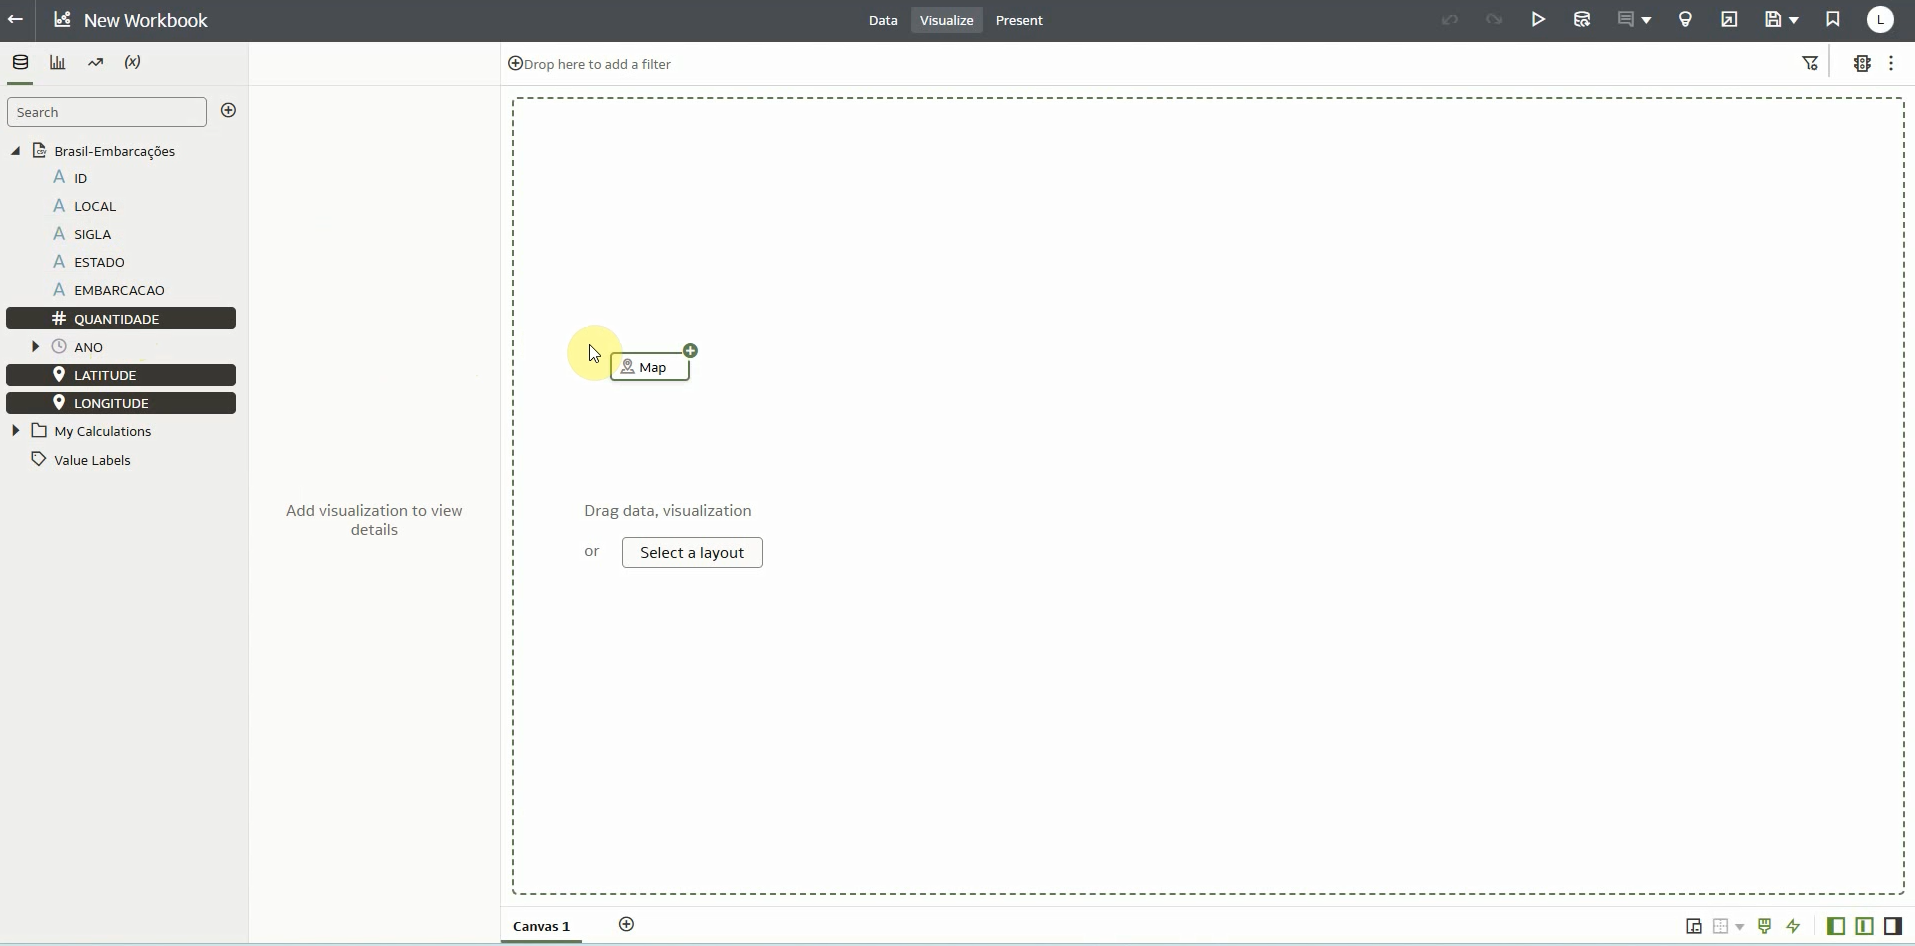
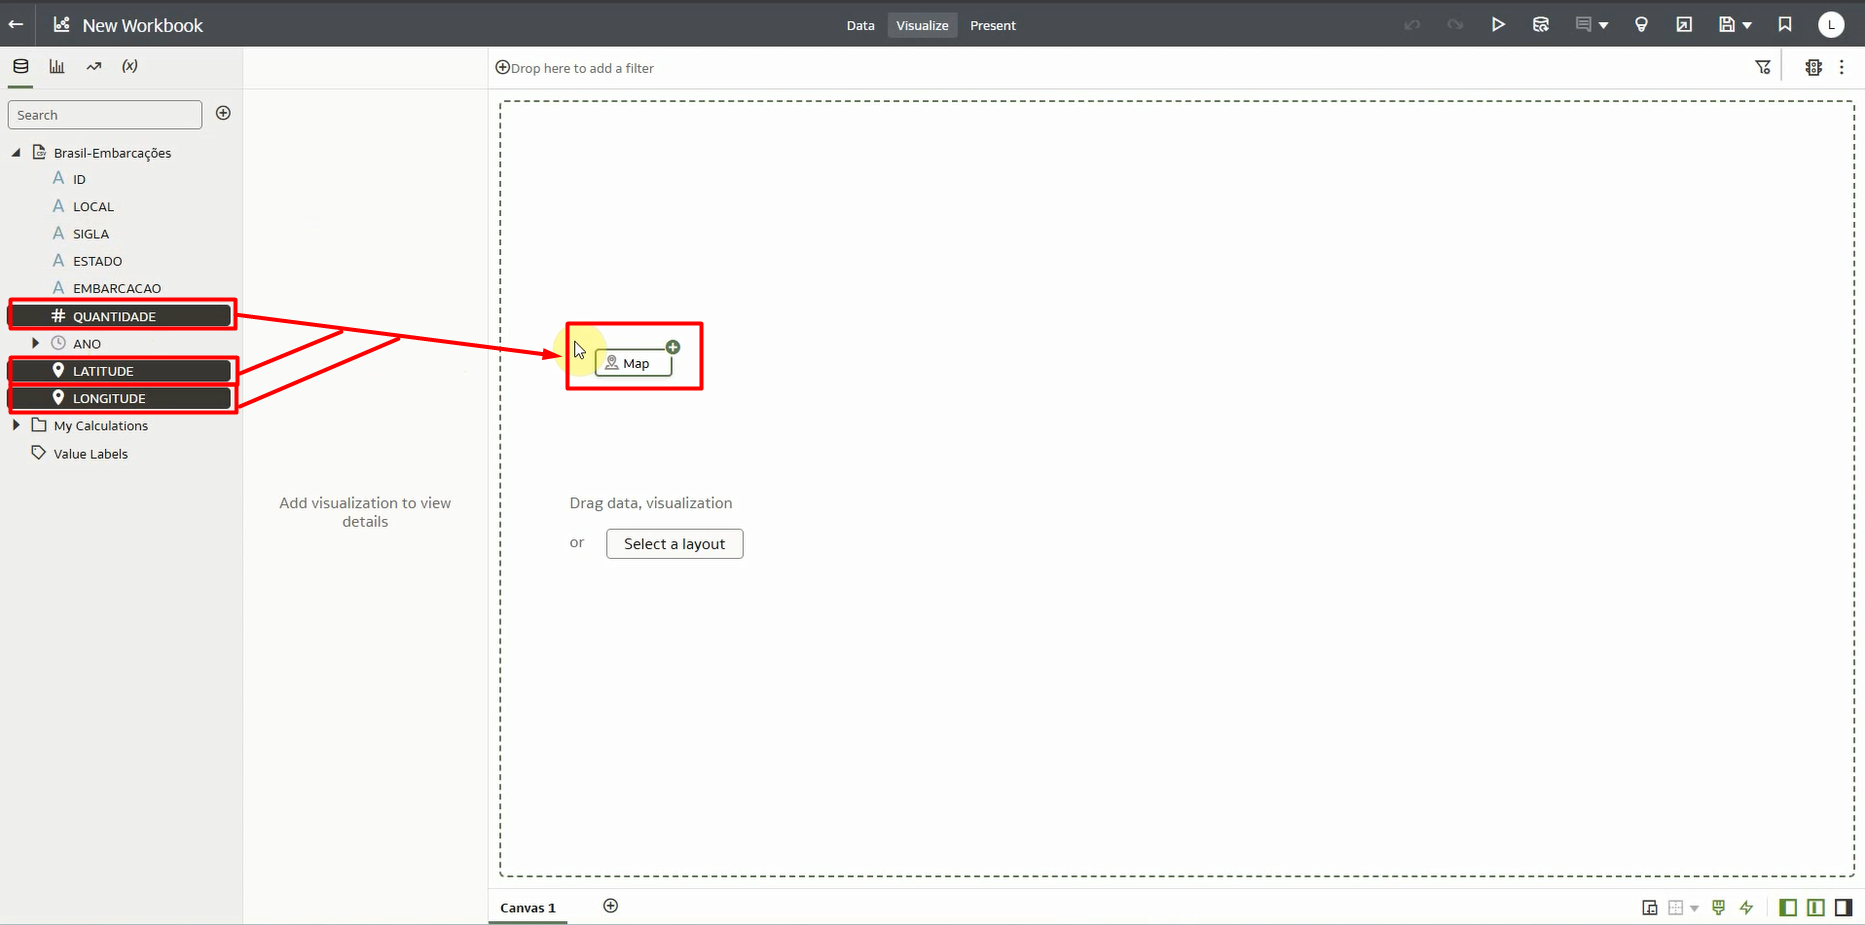
Todos labs OAC finalizados

diff --git a/5-analytics-cloud/5-analytics-cloud.md b/5-analytics-cloud/5-analytics-cloud.md
@@ -35,100 +35,145 @@ O objetivo deste workshop é demonstrar de forma prática como utilizar a ferram
 
 
 <br>
-3. Após o acesso da Homepage do OAC, faça o download do arquivo .dva com o material do laboratório: [Painel das Embarcações Brasileiras](https://objectstorage.us-ashburn-1.oraclecloud.com/n/idi1o0a010nx/b/Fast_Track/o/Lab%20Analytics%20-%20Embarca%C3%A7%C3%B5es%20Brasil.dva)
+3. Após o acesso da Homepage do OAC, **faça o download do arquivo .dva** com o material do laboratório: [Painel das Embarcações Brasileiras](https://objectstorage.us-ashburn-1.oraclecloud.com/n/idi1o0a010nx/b/Fast_Track/o/Lab%20Analytics%20-%20Embarca%C3%A7%C3%B5es%20Brasil.dva)
 
-4. Em seguida, clique nos 3 pontos, ao lado do ícone do perfil. Selecione **Import Workbook**, escolha o arquivo .dva que acabou de baixar no passo anterior.
+4. Em seguida, clique nos 3 pontos, ao lado do ícone do perfil. Selecione **'Import Workbook'**.
    ![Import do Arquivo](images/Import1.png)
+
+5. escolha o arquivo .dva que acabou de baixar no passo 3, para importar.
    ![Import do Arquivo](images/Import2.png)
    ![Import do Arquivo](images/Import3.png)
 
-5. Após a importação você terá acesso ao dataset (Conjunto de Dados) **Brasil-Embarcações** e ao workbook que vamos fazer, se quiser dar uma olhada como ele vai ficar no final só entrar nele **Lab Analytics - Embarcações Brasil**. 
-   ![Homepage depois do import](images/Import4.png)
-
-
-6. (OPCIONAL) Se quiser mudar o idioma da ferramenta, clique no Ícone do Perfil, selecione Perfil. Depois só escolher o Idioma e a Configuração Regional do OAC. 
+6. Alterar o idioma da ferramenta, clique no Ícone do Perfil, selecione Perfil. Depois só escolher o Idioma e a Configuração Regional do OAC para o desejado. 
    ![Perfil - Idioma](images/Perfil.png)
    ![Perfil - Idioma](images/Perfil2.png)
 
+7. (OPCIONAL) Após a importação você terá acesso ao dataset (Conjunto de Dados) **Brasil-Embarcações** e ao workbook que vamos fazer, se quiser dar uma olhada como ele vai ficar no final só entrar nele **Lab Analytics - Embarcações Brasil**. 
+   ![Homepage depois do import](images/Import4.png)
 
 ## 2⃣ Criação do Dashboard - Visualizações
 
-1. Na Homepage do OAC, selecione o conjunto de dados **Brasil-Embarcações**. Irá abrir o workbook (Pasta de Trabalho), uma tele em branco para montar o Painel com análises e visualizações. 
-![Conjunto de Dados para montar Painel](images/Workbook1.png)
+1. Na Homepage do OAC, selecione o Menu de Hamburguer (Canto Superior Esquerdo), Selecione Dados e a Aba Conjunto de Dados (Dataset).
+![Homepage - Conjunto de Dados](images/Dataset.png)
+
+2. Selcione **Brasil-Embarcações**. Irá abrir o workbook (Pasta de Trabalho), uma tele em branco para montar o Painel com análises e visualizações. 
 ![Painel com Conjunto de Dados selecionado](images/Workbook2.png)
 
-2. Na tela em branco do painel, selecione os dados da primeira coluna da esquerda, segurando o _CTRL+Clique_  **Quantidade, Latitude, Longitude**. Agora, arraste os itens selecionados para a Tela, e como sugestão o OAC já sugere que a visualização seja um Mapa.
+3. Na tela em branco do painel, selecione os dados da primeira coluna da esquerda, segurando o **_CTRL+Clique_  Quantidade, Latitude, Longitude**. Agora, **arraste** os itens selecionados **para a Tela** e como sugestão o OAC já sugere que a visualização seja um Mapa.
 ![Visualização Mapa](images/Workbook3.png)
 
-3. Dentro da Segunda Coluna, na gramática da visualização coloque o campo **QUANTIDADE** na caixa 'Tamanho'. E selecione o campo **ESTADO** e arraste ele ele dentro da caixa 'Cor'.
+4. Dentro da Segunda Coluna, na gramática da visualização coloque o campo **QUANTIDADE** na caixa 'Tamanho'. E selecione o campo **ESTADO** e arraste ele ele dentro da caixa 'Cor'.
 ![Visualização Mapa](images/Workbook4.png)
 
-4. (OPCIONAL) Pode alterar a propriedade para personalizar o mapa. Na segunda coluna onde fica a gramática e a propriedade do gráfico, selecione o ícone superior de propriedades e vá até ícone de mapa na segunda linha. Pode alterar a propriedade do Mapa, em cada ícone da segunda linha tem acesso a um tipo de personalização da visualização. 
+5. (OPCIONAL) Pode alterar a propriedade para personalizar o mapa. Na segunda coluna onde fica a gramática e a propriedade do gráfico, selecione o ícone superior de propriedades e vá até ícone de mapa na segunda linha. Pode alterar a propriedade do Mapa, em cada ícone da segunda linha tem acesso a um tipo de personalização da visualização. 
 ![Propriedades Visualização](images/Workbook5.png)
 
-5. (OPCIONAL) Pode deixar no modo que achar mais agradável, para continuar vou deixar no modo Dark/Escuro do Mapa.
+6. (OPCIONAL) Pode deixar no modo que achar mais agradável, para continuar vou deixar no modo Dark/Escuro do Mapa.
 ![Propriedades Visualização](images/Workbook6.png)
 
-6. Criar um gráfico de Barras. Seleciona o campos desejados na coluna da esquerda onde fica os dados, segurando o _CTRL+Clique_  **Estado e Quantidade**. Agora, arraste os itens selecionados para a Tela, ao lado do Mapa, aparece uma faixa verde na posição onde a visualização vai ficar. 
+7. Criar um gráfico de Barras. Seleciona o campos desejados na coluna da esquerda onde fica os dados, segurando o _CTRL+Clique_  **Estado e Quantidade**. Agora, arraste os itens selecionados para a Tela, ao lado do Mapa, aparece uma faixa verde na posição onde a visualização vai ficar. 
 ![Gráfico de Barra](images/Barra1.png)
 
-7. Para ordenar os dados do gráfico selecione o ícone com uma seta para cima e outra para baixo, como mostrado na imagem. E então selecione a forma que deseja ordenar os dados. 
+8. Para ordenar os dados do gráfico selecione o ícone com uma seta para cima e outra para baixo, como mostrado na imagem. E então selecione a forma que deseja ordenar os dados. 
 ![Ordenar Dados](images/Ordenar1.png)
 ![Ordenar Dados](images/Ordenar2.png)
 ![Ordenar Dados](images/Ordenar3.png)
 
-8. Salve seu trabalho até agora. Selecione o ícone do disquete no campo direito superior. Dê um nome para o seu Painel e salve. 
+9. Salve seu trabalho até agora. Selecione o ícone do disquete no campo direito superior. Dê um nome para o seu Painel e salve. 
 ![Salvar Painel](images/Save.png)
 
 ## 3⃣ Adição de Estatística nas Visualizações
 
 1. Para adicionar estatísticas como: _Previsão, Linha de Tendência, Linha de Referência, Outliers ou Cluster_. 
 <br> Seleciona a visualização que deseja adiconar estatística. Clique com o _botão direito_, selecione **Adionar Estatísticas**. E escolhe a opção **Outliers**, trará os pontos que destoam do grupo. 
-
    ![Estatística - Outliers](images/Outliers.png)
    ![Estatística - Outliers](images/Outliers2.png)
 
-2. Para deixar uma visualização mais personalizada pode adicionar um filtro para trazer os _**10 maiores valores**_. 
-<br> Selecione o dado **Quantidade** na primeira coluna e traga para segunda coluna, na gramática do painel para adionar **Quantidade** em **Filtros**. 
+2. Para deixar uma visualização mais personalizada pode adicionar um filtro para trazer os _**10 maiores valores**_. Na segunda coluna, selecione o ícone da Gramática da Visualização.
+   ![Filtro na Visualização](images/Filtro.png)
+
+3. Selecione o dado **Quantidade** na primeira coluna e traga para segunda coluna, na gramática do painel para adionar **Quantidade** em **Filtros**. 
 <br> Personalize o filtro, definindo _N Mais Altos_ e Contragem _10_. 
 
-   ![Filtro na Visualização](images/Filtro.png)
    ![Filtro na Visualização](images/Filtro1.png)
 
-3. Ao adicionar mais algumas métricas de estatística, como Linha de Referência. 
+4. Ao adicionar mais algumas métricas de estatística, como Linha de Referência. 
 <br> Seleciona a visualização que deseja adiconar estatística. Clique com o _botão direito_, selecione **Adionar Estatísticas**. E escolhe a opção **Linha de Referência**. Deixe na Função Média. 
 
    ![Linha de Referência](images/Referencia1.png)
    ![Linha de Referência](images/Referencia2.png)
 
-4. Repita o passo anterior. 
+5. Repita o passo anterior. 
 <br> Seleciona a visualização que deseja adiconar estatística. Clique com o _botão direito_, selecione **Adionar Estatísticas**. E escolhe a opção **Linha de Referência**. Deixe na Função Mediana, alterando a cor da linha para ficar diferente.   
 
    ![Linha de Referência](images/Referencia3.png)
    ![Linha de Referência](images/Referencia4.png)
 
 ## 4⃣ One-Click Explain & Autoinsights
-1. Adiocione mais uma tela. No canto inferior tem um símbolo de '+', ao lado da aba 'Tela 1' ou 'Geral'. Clique nele para adicionar uma segunda Tela.
+1. Adicione mais uma tela. No canto inferior tem um símbolo de '+', ao lado da aba 'Tela 1' ou 'Geral'. Clique nele para adicionar uma segunda Tela.
    ![Tela 2](images/Tela2.png) 
 
 2. Renomeie o nome da Tela 2 para **'Autoinsights'**, Abas no canto inferior do Painel. 
 
-3. 
-   ![Autoinsights](images/Autoinsight1.png) 
-   ![Autoinsights](images/Autoinsight2.png) 
+3. Selecione a **Lâmpada Laranja** no canto superior direito próximo ao Ícone do Perfil. Irá abrir uma aba com várias sugestões de gráficos e visualizações.
+   ![Autoinsights](images/Autoinsight1.png)
+   ![Autoinsights](images/Autoinsight2.png)  
+
+4. Aproveite para selecionar algumas visualizações, como o Mapa **Geographical Density of Records**, clique no símbolo '+' ou arraste e solte na tela do Painel. 
    ![Autoinsights](images/Autoinsight3.png) 
+
+5. Repita a mesma ação para o gráfico de Barras **Top 10 SIGLA by QUANTIDADE**.
    ![Autoinsights](images/Autoinsight4.png) 
+
+6. Sua tela de Autoinsights vai ficar dessa forma: 
    ![Autoinsights](images/Autoinsight5.png) 
 
+7. Agora, a funcionalidade que explica seu dado. Clique com o _botão direito_ em cima do dado **ESTADO**. E selecione **'Explicar ESTADO'**
+   ![One-Click Explain](images/Explain10.png)
+
+8. Vai abrir um pop up, com __Fatos Básicos, Drivers Chave, Segmentos e Anomalias__ sobre o dado selecionado.
+   ![One-Click Explain](images/Explain11.png)
+
+9. Navegue pelas Abas do Explain para ver quais visualizações e qual tipos de análises são disponibilizadas com 1-Clique.
+   ![One-Click Explain](images/Explain12.png)
+   ![One-Click Explain](images/Explain13.png)
+   ![One-Click Explain](images/Explain14.png)
+
+10. Repita para o dado **EMBARCAÇÃO**, clique com o _botão direito_ em cima do dado **EMBARCAÇÃO**. E selecione **'Explicar EMBARCAÇÃO'**
+   ![One-Click Explain](images/Explain1.png)
+   ![One-Click Explain](images/Explain2.png)
+   ![One-Click Explain](images/Explain3.png)
+   ![One-Click Explain](images/Explain4.png)
+
+11. Adicione algumas das visualizações disponibilizadas no seu Painel, selecione o **'Check Verde'**, no canto superior das visualizações. 
+   ![One-Click Explain](images/Explain5.png)
+   ![One-Click Explain](images/Explain6.png)
+
+12. Agora selecione o botão **'Adicionar Selecionado'** e veja as visualizações disponíveis no seu Painel.
+   ![One-Click Explain](images/Explain7.png)
+
+13. Salve seu trabalho. Selecione o ícone do disquete no campo direito superior. E volte a Homepage.
+![Salvar Painel](images/Save2.png)
+![Voltar a Homepage](images/Save3.png)
+
+14. Navegue pelo Painel pronto que foi importado na primeira tarefa. O Workbook (Pasta de Trabalho) **Lab Analytics - Embarcações Brasil**. 
+   ![Homepage depois do import](images/Import4.png)
+
+
+<br>
+
+Parabéns, você terminou os Laboratórios de **OAC - Oracle Analytics Cloud com sucesso!!** 
+
+<br>
 
 ## 5⃣ [EXTRA] Adição de Previsão, Campo Calculado, Filtros e Personalização do Dashboard
 
-1. Adiocione mais uma tela. No canto inferior tem um símbolo de '+', ao lado da aba 'Tela 1' ou 'Geral'. Clique nele para adicionar uma segunda Tela.
+1. Adiocione mais uma tela. No canto inferior em um símbolo de '+', ao lado da aba 'Tela 1' ou 'Geral'. Clique nele para adicionar uma segunda Tela.
    ![Tela 4](images/Tela2.png) 
 
 
 ### **Estatística - Previsão (Forecast)**
-2. Segure _CTRL+Clique_ nos campos **ANO e QUANTIDADE** na primeira coluna no primeiro ícone (Dados), e arraste os dois para a tela em branco. Verifique que é um gráfico de **Linha**.
+2. Segure **_CTRL+Clique_** nos campos **ANO e QUANTIDADE** na primeira coluna no primeiro ícone (Dados), e arraste os dois para a tela em branco. Verifique que é um gráfico de **Linha**.
    ![Previsão](images/Previsao.png) 
 
 3. Seleciona a visualização que deseja adiconar estatística. Clique com o _botão direito_, selecione **Adionar Estatísticas**. E escolhe a opção **Previsão**.
@@ -199,7 +244,7 @@ O objetivo deste workshop é demonstrar de forma prática como utilizar a ferram
 ### **Filtros**
 
 5. Criar uma visualização de Nuvem de Palavras e utilizá-la como filtro. 
-Selecione os campos desejados **Embarcao e Quantidade**. _Clique com o botão direito_ e escolhe a opção **Selecionar Visualização**, agora selecione o ícone da nuvem de palavras, como na imagem a seguir. 
+Selecione os campos desejados **Embarção e Quantidade**. _Clique com o botão direito_ e escolhe a opção **Selecionar Visualização**, agora selecione o ícone da nuvem de palavras, como na imagem a seguir. 
    ![Nuvem de Palavras](images/Tag1.png)
    ![Nuvem de Palavras](images/Tag2.png)
 
@@ -231,11 +276,13 @@ Selecione os campos desejados **Embarcao e Quantidade**. _Clique com o botão di
 13. Também pode utilizar filtros no cabeçalho do Painel. Selecione o campo **ESTADO** na primeira coluna no primeiro ícone (Dado). Segure e arraste para o campo superior da tela onde há um '+' com Clique aqui ou arraste os dados para adicionar um filtro".
    ![Filtro Seletor](images/Filtro15.png)   
 
-14. Faça o mesmo com o campo **EMBARCACAO**, adicionando ele na barra de filtro superior do Painel. 
+14. Faça o mesmo com o campo **EMBARCAÇÃO**, adicionando ele na barra de filtro superior do Painel. 
    ![Filtro Seletor](images/Filtro16.png)  
 
 15. Renomeie o nome da Tela 1 para **'Geral'**, Abas no canto inferior do Painel. 
    ![Tela 1 para Geral](images/Geral.png)  
+
+
 
 
 ## Agradecimentos
